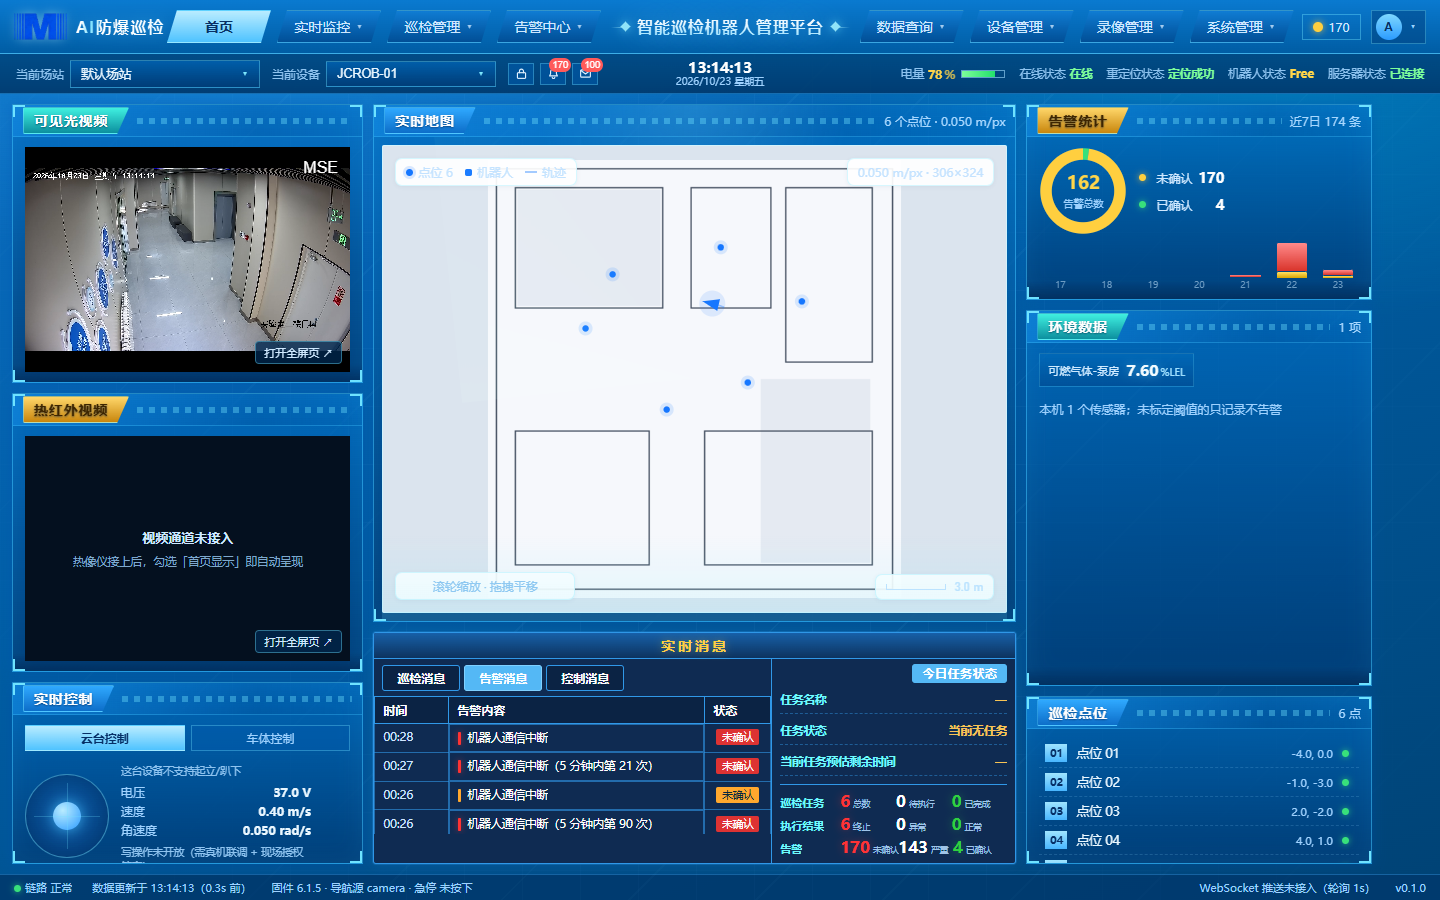
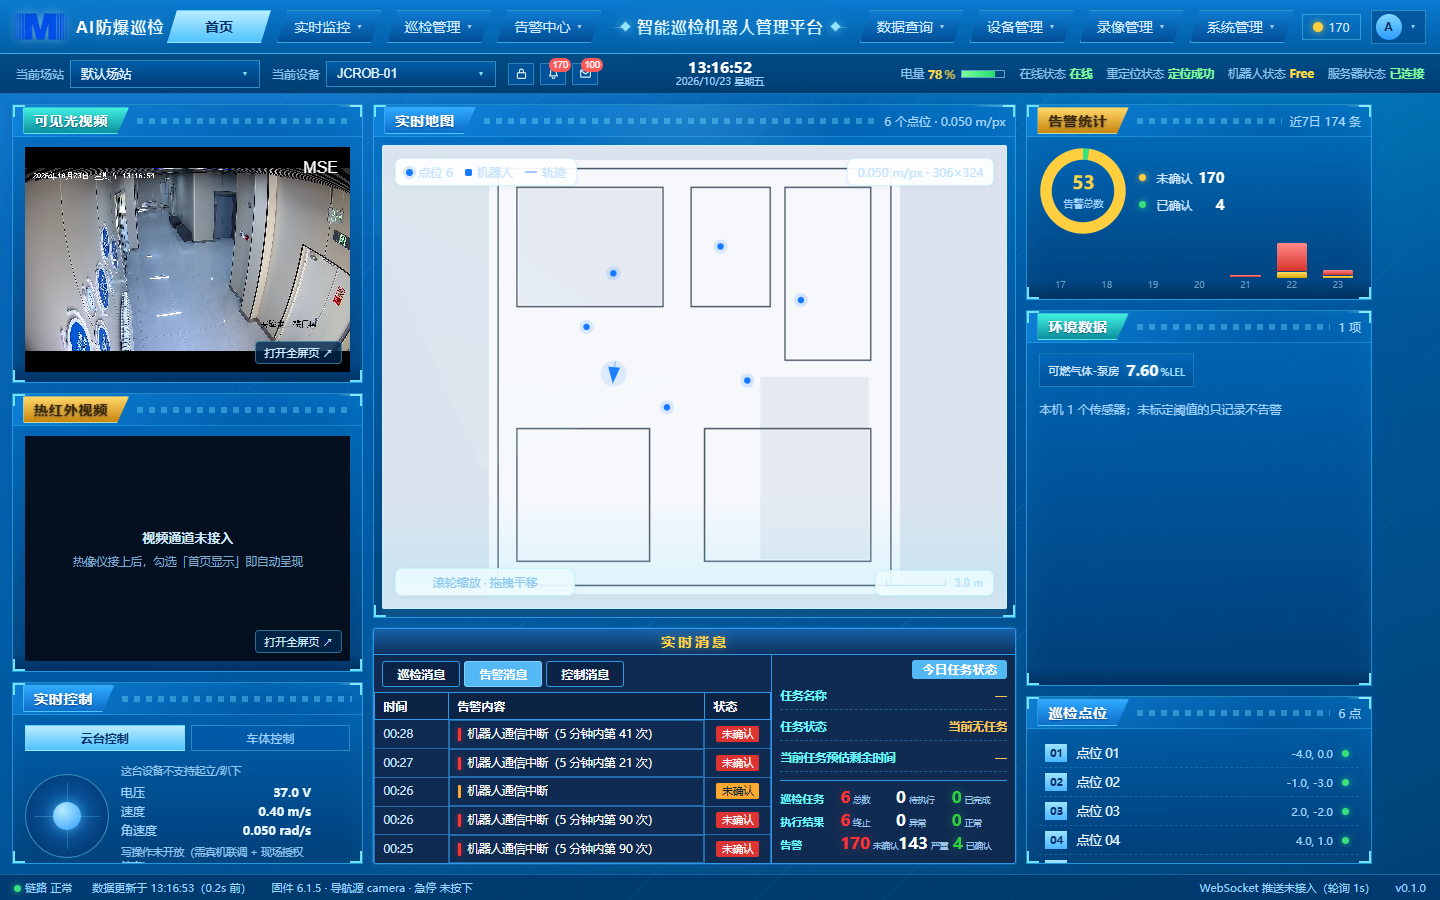
style(dashboard): 实时消息左栏撑满到底（可滚动），右栏三行计数不再被裁
- .rt 定高 236px（208 时右侧"告警"行被裁，208→236 刚好三行全显示）
- .rt-body 加 height:100% + grid-template-rows: minmax(0,1fr)，
  左栏 .rt-left height:100% + min-height:0
- .rt-scroll 去掉 max-height，改 flex:1：表格区自动铺满到面板底部并纵向滚动
  实测：滚动区 171px，scrollHeight > clientHeight（可上下滑）

底部空白消失，地图高度不受影响（地图仍是 1fr）。

diff --git a/web/src/pages/Dashboard.vue b/web/src/pages/Dashboard.vue
@@ -1360,7 +1360,7 @@ async function logout() {
 
 /* ===== 实时消息：1:1 复刻参考（配色用豆包给出的精确值） ===== */
 .rt {
-  height: auto; flex: none;   /* 高度由内容决定，不留底部空白，地图吃剩余空间 */ display: flex; flex-direction: column;
+  height: 236px; flex: none;   /* 定高：左侧列表撑满到底，图表区不塌陷 */ display: flex; flex-direction: column;
   background: #0f2b52; border: 1px solid #3098e8; border-radius: 3px;
   box-shadow: 0 0 0 1px rgba(48, 152, 232, .25), 0 0 12px rgba(48, 152, 232, .18);
   overflow: hidden;
@@ -1375,8 +1375,8 @@ async function logout() {
   text-shadow: 0 0 8px rgba(255, 208, 64, .35);
 }
 /* 左栏比原来窄约 12%（70%→62%），右栏随之左移变宽 */
-.rt-body { flex: 1; min-height: 0; display: grid; align-items: stretch; grid-template-columns: 6.2fr 1px 3.8fr; }
-.rt-left { min-width: 0; display: flex; flex-direction: column; }
+.rt-body { flex: 1; min-height: 0; height: 100%; display: grid; grid-template-rows: minmax(0, 1fr); align-items: stretch; grid-template-columns: 6.2fr 1px 3.8fr; }
+.rt-left { min-width: 0; min-height: 0; height: 100%; display: flex; flex-direction: column; }
 .rt-tabs { display: flex; gap: 0; padding: 6px 8px 5px; flex: none; }
 .rt-tabs button {
   padding: 4px 14px; font-size: 12px; font-weight: 600; cursor: pointer;
@@ -1384,7 +1384,7 @@ async function logout() {
   margin-right: 4px;
 }
 .rt-tabs button.on { background: #54b8f5; color: #ffffff; border-color: #7fd0ff; }
-.rt-scroll { min-height: 0; max-height: 138px; overflow-y: auto; overflow-x: hidden; scrollbar-width: thin; }
+.rt-scroll { flex: 1; min-height: 0; overflow-y: auto; overflow-x: hidden; scrollbar-width: thin; }
 .rt-scroll::-webkit-scrollbar { width: 6px; }
 .rt-scroll::-webkit-scrollbar-thumb { background: #2f7fc4; border-radius: 3px; }
 .rt-tbl { width: 100%; border-collapse: collapse; table-layout: fixed; }
